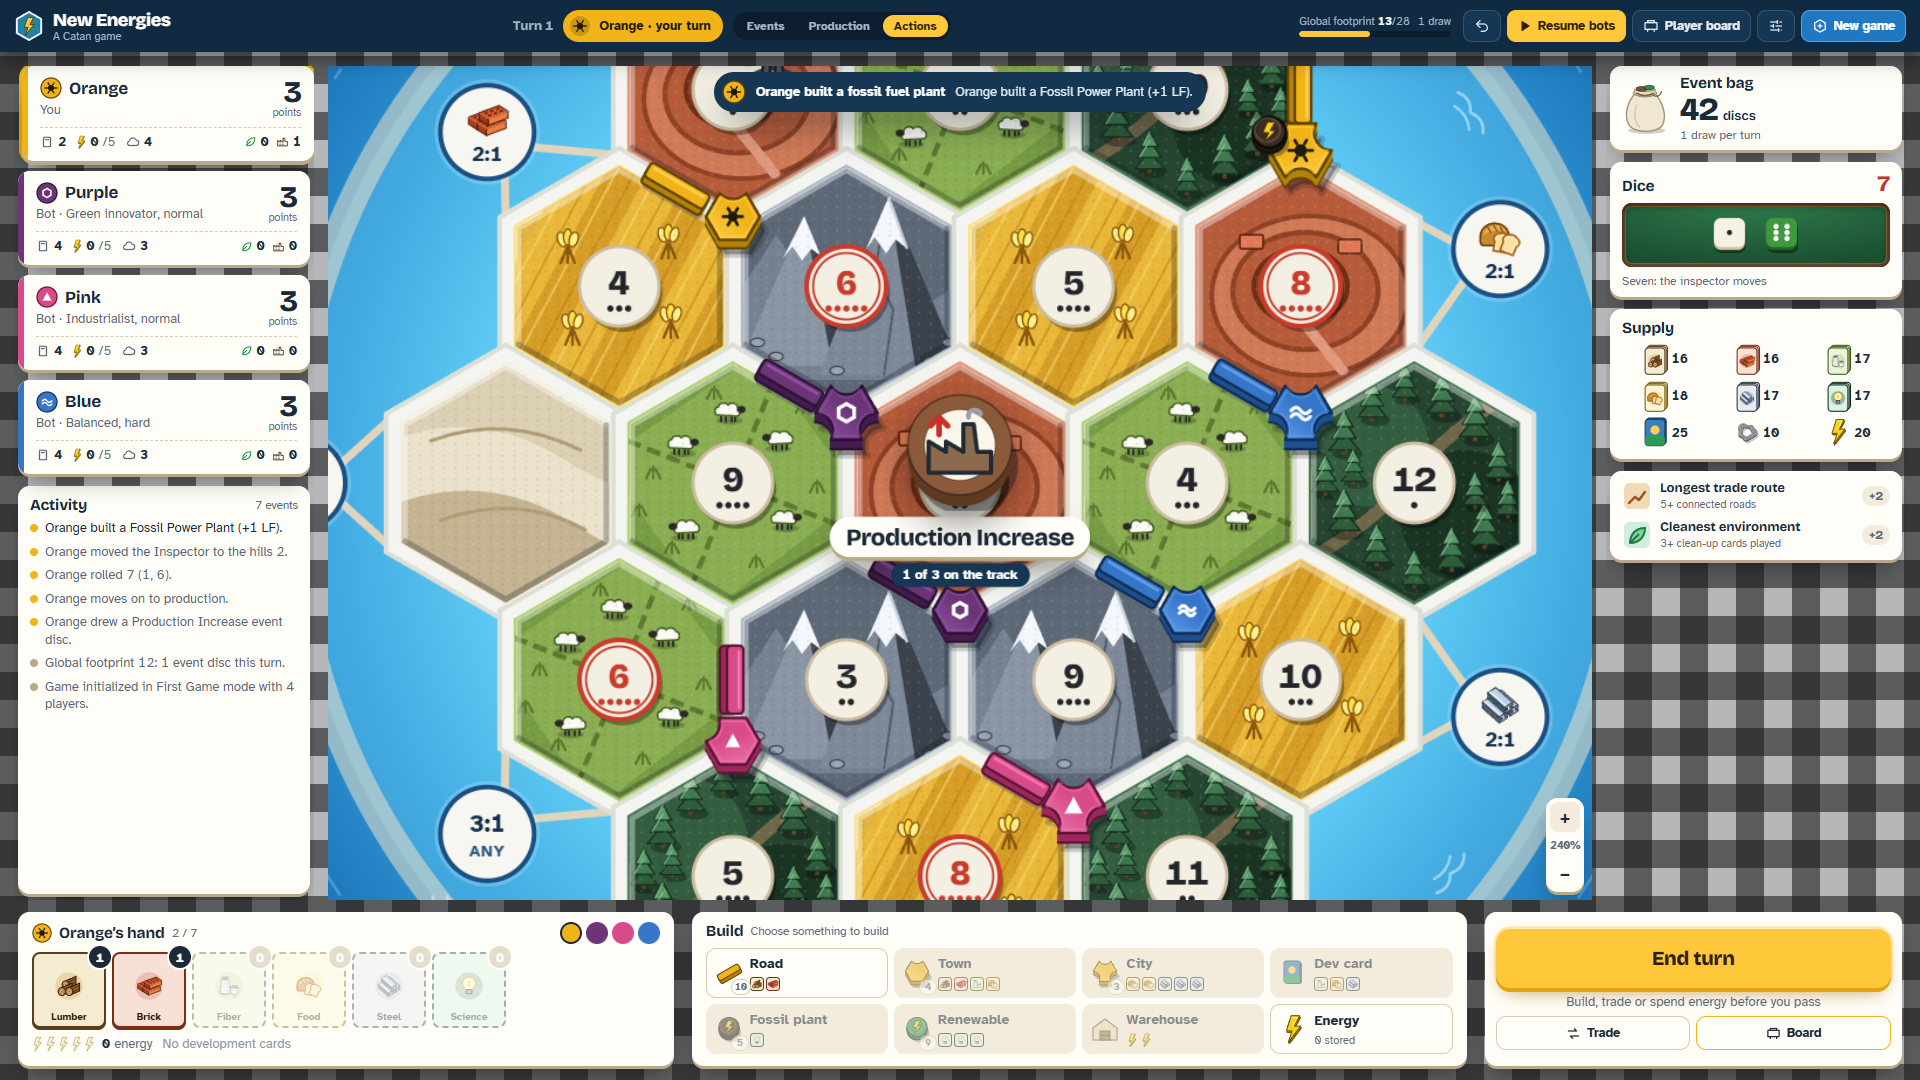
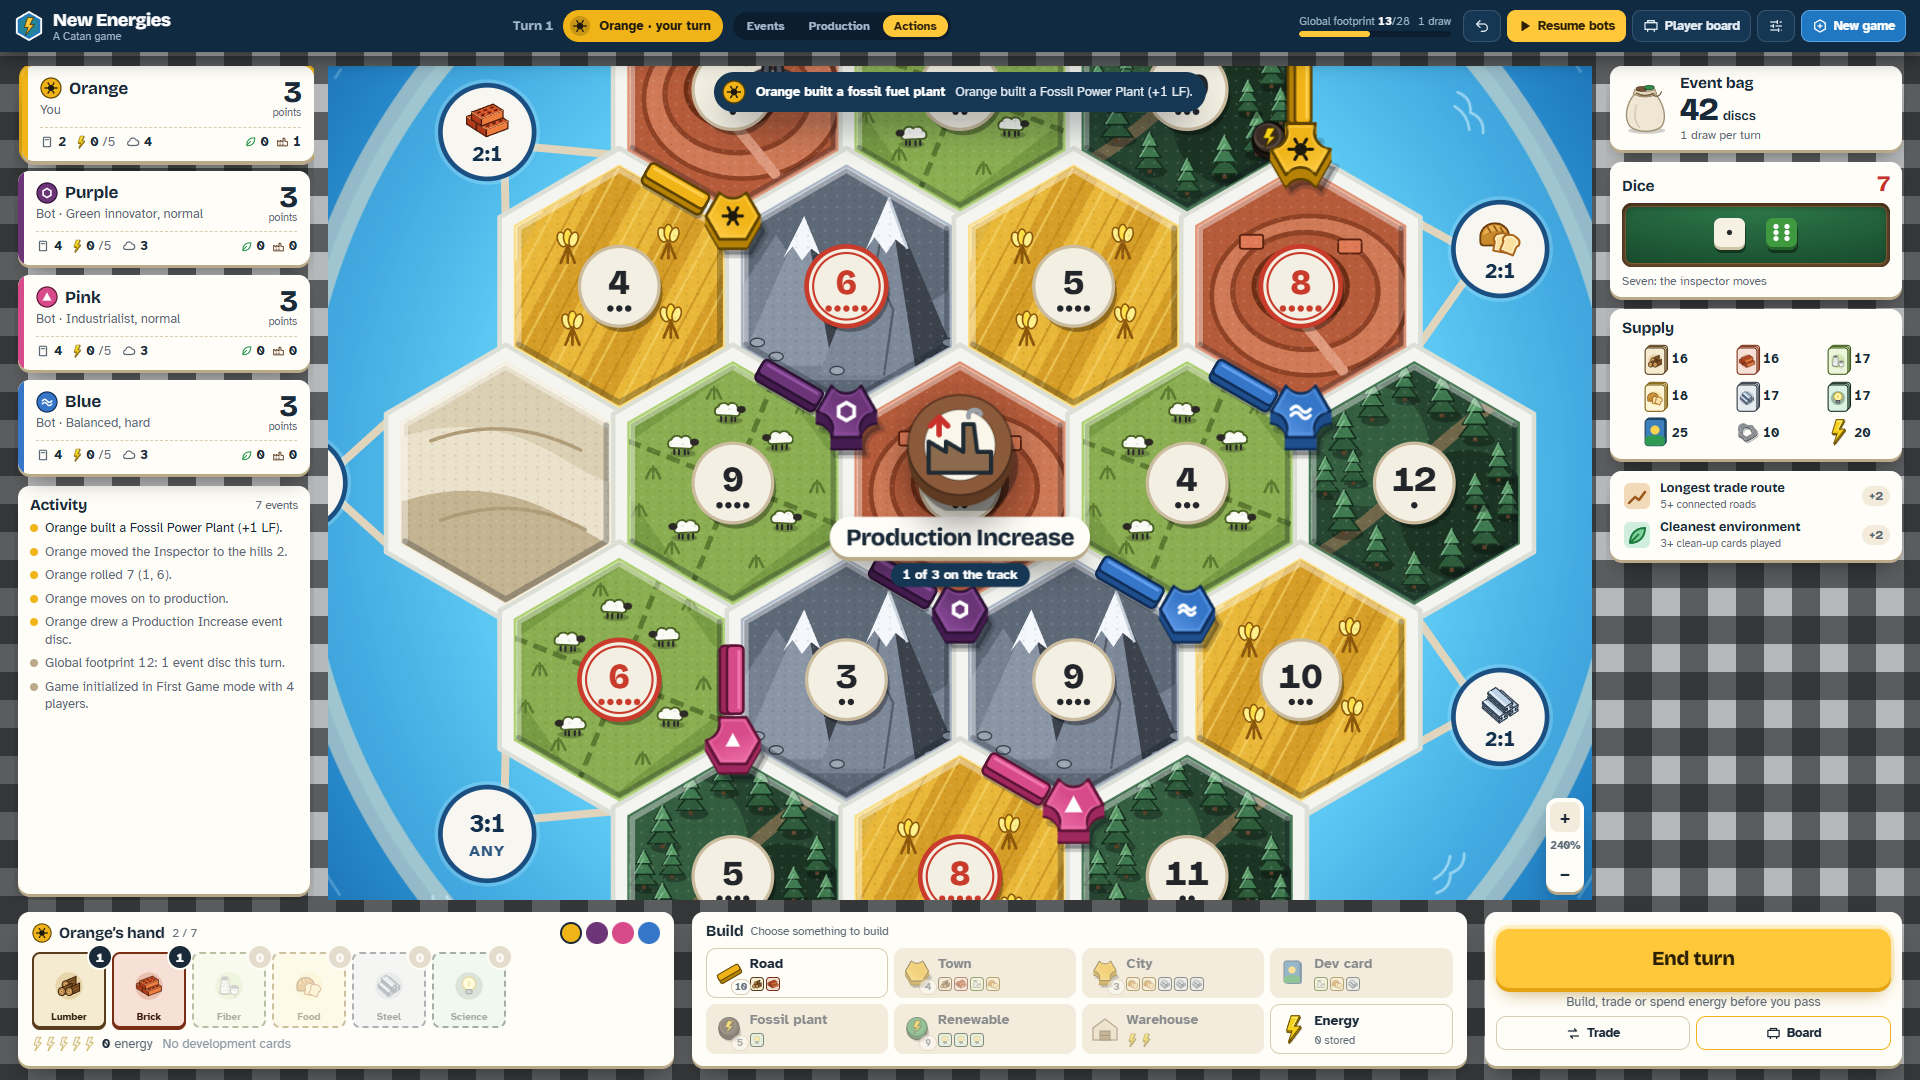
feat(ui): power plants sit down in the city's notches; centre the top brick
Plants no longer look pasted over the building:
- The city is the tallest piece (wall 5, body slimmed to keep its reach
  at 13.5 so roads still meet it cleanly), towns are 4 thick, and plant
  discs are thinner (0.3 x radius), so a plant is clearly shorter than the
  building it belongs to.
- Each plant now stands on the board in its notch (its base level with
  the building's base) instead of floating 2 units higher.
- Layering follows the viewing direction: a plant on the far side of the
  building (up the screen) is drawn behind it, so the building's raised
  top edge tucks over the plant; a plant on the near side is drawn in
  front, with the city's wall rising above it. This is decided per notch,
  so all six directions layer correctly.
- Plant placement targets moved to their own top layer, so highlights and
  clicks are never hidden under a building; hazard tokens stay on top of
  their building and let clicks through.
- ?scenario=plantfit puts a plant in every notch for visual checks.

Brick icon: the third brick now lies across the middle of the two below
(centred on their seam, like the steel icon) and the icon is re-centred.

diff --git a/src/ui/IslandBoardSvg.tsx b/src/ui/IslandBoardSvg.tsx
@@ -18,6 +18,7 @@ import {
   EventDiscType,
   GameState,
   HexId,
+  Intersection,
   NodeId,
   PlayerId,
   TerrainType,
@@ -40,10 +41,9 @@ import {
   HazardTokenSvg,
   InspectorPawnSvg,
   PieceDefs,
-  CITY_DEPTH,
   PLANT_RADIUS,
   PLANT_SOCKET_DIST,
-  TOWN_DEPTH,
+  plantRestOffset,
   PowerPlantCylinderSvg,
   TownPieceSvg,
 } from './WoodenPiecesSvg';
@@ -419,6 +419,27 @@ function usePlacementTimes(board: GameState['board']): (key: string) => boolean 
   };
 }
 
+/**
+ * Where the power plant disc for (node, hex) rests, and whether it is on the far side of the
+ * building (up the screen), in which case the building is drawn over it.
+ */
+function plantSlot(
+  board: GameState['board'],
+  node: Intersection,
+  hexId: HexId
+): { x: number; y: number; behind: boolean } {
+  const np = latticeToSvg(node.u, node.v);
+  const hp = hexCoordToSvg(board.hexes[hexId]!.coord);
+  const dx = hp.x - np.x;
+  const dy = hp.y - np.y;
+  const dist = Math.hypot(dx, dy) || 1;
+  return {
+    x: np.x + (dx / dist) * PLANT_SOCKET_DIST,
+    y: np.y + (dy / dist) * PLANT_SOCKET_DIST + plantRestOffset(node.building?.type ?? 'town'),
+    behind: dy < -1,
+  };
+}
+
 function angleToHexDeg(
   board: GameState['board'],
   np: { x: number; y: number },
@@ -746,7 +767,9 @@ export function IslandBoardSvg({
         })}
       </g>
 
-      {/* 5. 54 Intersections (Towns & Cities oriented to their plants, hazards & placement targets) */}
+      {/* 5. 54 Intersections. Each stack draws, in this order: plants on the far side of the building
+          (the building's raised top then overlaps them, so they sit down in their notch), the building,
+          plants on the near side (the building's wall shows above them), then any hazard token. */}
       <g className="intersections-layer">
         {board.intersections.map((node) => {
           const np = latticeToSvg(node.u, node.v);
@@ -770,99 +793,113 @@ export function IslandBoardSvg({
           const shownType = preview ? preview.type : node.building?.type;
           const shownPlayer = preview ? preview.playerId : node.building?.playerId;
 
+          const plantsOn = (behind: boolean) =>
+            node.powerPlants
+              .filter((plant) => plantSlot(board, node, plant.hexId).behind === behind)
+              .map((plant) => {
+                const slot = plantSlot(board, node, plant.hexId);
+                const slotKey = `${node.id}-${plant.hexId}`;
+                return (
+                  <g
+                    key={slotKey}
+                    data-plant={slotKey}
+                    role="img"
+                    aria-label={`${plant.type} power plant owned by ${plant.playerId} at intersection ${node.id}`}
+                    pointerEvents="none"
+                    className={isFresh(`p${slotKey}`) ? 'piece-drop' : undefined}
+                  >
+                    <PowerPlantCylinderSvg type={plant.type} cx={slot.x} cy={slot.y} r={PLANT_RADIUS} />
+                  </g>
+                );
+              });
+
           return (
-            <g
-              key={node.id}
-              data-node={node.id}
-              transform={`translate(${np.x.toFixed(2)}, ${np.y.toFixed(2)})`}
-              onClick={() => onNodeClick?.(node.id)}
-              onMouseEnter={isHighlighted ? () => onNodeHover?.(node.id) : undefined}
-              onMouseLeave={isHighlighted ? () => onNodeHover?.(null) : undefined}
-              onKeyDown={(e) => {
-                if (e.key === 'Enter' || e.key === ' ') {
-                  e.preventDefault();
-                  onNodeClick?.(node.id);
-                }
-              }}
-              onFocus={isHighlighted ? () => onNodeHover?.(node.id) : undefined}
-              onBlur={isHighlighted ? () => onNodeHover?.(null) : undefined}
-              role="button"
-              tabIndex={isHighlighted ? 0 : -1}
-              aria-label={`Intersection ${node.id}${node.building ? `: ${node.building.type} owned by ${node.building.playerId}` : ''}${node.hasHazard ? ', blocked by Hazard' : ''}`}
-              style={{ cursor: isHighlighted ? 'pointer' : 'inherit' }}
-            >
-              {/* Invisible hit circle */}
-              <circle cx={0} cy={0} r={isHighlighted ? 19 : 13} fill="transparent" />
+            <g key={node.id} className="node-stack">
+              {plantsOn(true)}
 
-              {shownType && shownPlayer && (
-                <g
-                  opacity={preview ? 0.62 : 1}
-                  data-testid={preview ? `node-preview-${node.id}` : undefined}
-                  className={!preview && isFresh(`n${node.id}`) ? 'piece-drop' : undefined}
-                >
-                  {shownType === 'town' ? (
-                    <TownPieceSvg
-                      playerId={shownPlayer}
-                      cx={0}
-                      cy={0}
-                      cutoutAngleDeg={townCutoutAngleDeg}
-                    />
-                  ) : (
-                    <CityPieceSvg
-                      playerId={shownPlayer}
-                      cx={0}
-                      cy={0}
-                      cutoutAngleDeg={firstHexAngleDeg}
-                    />
-                  )}
-                </g>
-              )}
+              <g
+                data-node={node.id}
+                transform={`translate(${np.x.toFixed(2)}, ${np.y.toFixed(2)})`}
+                onClick={() => onNodeClick?.(node.id)}
+                onMouseEnter={isHighlighted ? () => onNodeHover?.(node.id) : undefined}
+                onMouseLeave={isHighlighted ? () => onNodeHover?.(null) : undefined}
+                onKeyDown={(e) => {
+                  if (e.key === 'Enter' || e.key === ' ') {
+                    e.preventDefault();
+                    onNodeClick?.(node.id);
+                  }
+                }}
+                onFocus={isHighlighted ? () => onNodeHover?.(node.id) : undefined}
+                onBlur={isHighlighted ? () => onNodeHover?.(null) : undefined}
+                role="button"
+                tabIndex={isHighlighted ? 0 : -1}
+                aria-label={`Intersection ${node.id}${node.building ? `: ${node.building.type} owned by ${node.building.playerId}` : ''}${node.hasHazard ? ', blocked by Hazard' : ''}`}
+                style={{ cursor: isHighlighted ? 'pointer' : 'inherit' }}
+              >
+                {/* Invisible hit circle */}
+                <circle cx={0} cy={0} r={isHighlighted ? 19 : 13} fill="transparent" />
 
-              {/* Hazard token resting on the building (its hole shows the piece beneath) */}
+                {shownType && shownPlayer && (
+                  <g
+                    opacity={preview ? 0.62 : 1}
+                    data-testid={preview ? `node-preview-${node.id}` : undefined}
+                    className={!preview && isFresh(`n${node.id}`) ? 'piece-drop' : undefined}
+                  >
+                    {shownType === 'town' ? (
+                      <TownPieceSvg
+                        playerId={shownPlayer}
+                        cx={0}
+                        cy={0}
+                        cutoutAngleDeg={townCutoutAngleDeg}
+                      />
+                    ) : (
+                      <CityPieceSvg
+                        playerId={shownPlayer}
+                        cx={0}
+                        cy={0}
+                        cutoutAngleDeg={firstHexAngleDeg}
+                      />
+                    )}
+                  </g>
+                )}
+
+                {/* Placement target */}
+                {isHighlighted && !preview && (
+                  <g data-testid={`node-target-${node.id}`}>
+                    <g className="target-pulse">
+                      <circle cx={0} cy={0} r={11} fill="rgba(255, 200, 58, 0.28)" stroke="#ffc83a" strokeWidth={1.5} />
+                    </g>
+                    <circle cx={0} cy={0} r={6.5} fill="#ffc83a" stroke="#ffffff" strokeWidth={2.2} />
+                  </g>
+                )}
+              </g>
+
+              {plantsOn(false)}
+
+              {/* Hazard token resting on the building (its hole shows the piece beneath); clicks pass through */}
               {node.hasHazard && (
                 <g
                   data-testid={`node-hazard-${node.id}`}
+                  transform={`translate(${np.x.toFixed(2)}, ${np.y.toFixed(2)})`}
+                  pointerEvents="none"
                   className={isFresh(`hzn${node.id}`) ? 'piece-drop' : undefined}
                 >
                   <HazardTokenSvg cx={0} cy={-2} r={node.building?.type === 'city' ? 17 : 15} holeRatio={0.46} />
-                </g>
-              )}
-
-              {/* Placement target */}
-              {isHighlighted && !preview && (
-                <g data-testid={`node-target-${node.id}`}>
-                  <g className="target-pulse">
-                    <circle cx={0} cy={0} r={11} fill="rgba(255, 200, 58, 0.28)" stroke="#ffc83a" strokeWidth={1.5} />
-                  </g>
-                  <circle cx={0} cy={0} r={6.5} fill="#ffc83a" stroke="#ffffff" strokeWidth={2.2} />
                 </g>
               )}
             </g>
           );
         })}
       </g>
-      {/* 6. Power plant discs, nested in the Town/City notches */}
-      <g className="power-plants-cutout-layer">
-        {board.intersections.map((node) => {
-          const np = latticeToSvg(node.u, node.v);
 
-          return node.adjacentHexIds.map((hexId) => {
-            const hex = board.hexes[hexId]!;
-            const hp = hexCoordToSvg(hex.coord);
-            const dx = hp.x - np.x;
-            const dy = hp.y - np.y;
-            const dist = Math.hypot(dx, dy) || 1;
-            // The town/city top face is raised by half its thickness; keep the plant nested in its notch
-            const lift = (node.building?.type === 'city' ? CITY_DEPTH : TOWN_DEPTH) / 2;
-            const slotX = np.x + (dx / dist) * PLANT_SOCKET_DIST;
-            const slotY = np.y + (dy / dist) * PLANT_SOCKET_DIST - lift;
-
+      {/* 6. Power plant placement targets, on top of everything so they are never hidden */}
+      <g className="plant-targets-layer">
+        {board.intersections.map((node) =>
+          node.adjacentHexIds.map((hexId) => {
             const slotKey = `${node.id}-${hexId}`;
+            if (!(highlightedCutoutSlots?.has(slotKey) ?? false)) return null;
+            const slot = plantSlot(board, node, hexId);
             const plant = node.powerPlants.find((p) => p.hexId === hexId) ?? null;
-            const isHighlighted = highlightedCutoutSlots?.has(slotKey) ?? false;
-
-            if (!plant && !isHighlighted) return null;
-
             return (
               <g
                 key={slotKey}
@@ -879,32 +916,21 @@ export function IslandBoardSvg({
                   }
                 }}
                 role="button"
-                tabIndex={isHighlighted ? 0 : -1}
+                tabIndex={0}
                 aria-label={`Power plant cutout at intersection ${node.id} on hex ${hexId}${plant ? `: ${plant.type} plant owned by ${plant.playerId}` : ' (available)'}`}
-                style={{ cursor: isHighlighted ? 'pointer' : 'inherit' }}
+                style={{ cursor: 'pointer' }}
               >
-                {plant && (
-                  <g className={isFresh(`p${slotKey}`) ? 'piece-drop' : undefined}>
-                    <PowerPlantCylinderSvg type={plant.type} cx={slotX} cy={slotY} r={PLANT_RADIUS} />
+                <g data-testid={`plant-target-${slotKey}`} transform={`translate(${slot.x}, ${slot.y})`}>
+                  <circle r={13} fill="transparent" />
+                  <g className="target-pulse">
+                    <circle r={8.5} fill="rgba(47, 154, 83, 0.85)" stroke="#ffffff" strokeWidth={2} />
+                    <polygon points="-1,-4.5 2.8,-4.5 0,0 3.2,0 -2.2,5 -0.5,0.5 -3.2,0.5" fill="#ffc83a" />
                   </g>
-                )}
-
-                {isHighlighted && (
-                  <g data-testid={`plant-target-${slotKey}`} transform={`translate(${slotX}, ${slotY})`}>
-                    <circle r={13} fill="transparent" />
-                    <g className="target-pulse">
-                      <circle r={8.5} fill="rgba(47, 154, 83, 0.85)" stroke="#ffffff" strokeWidth={2} />
-                      <polygon
-                        points="-1,-4.5 2.8,-4.5 0,0 3.2,0 -2.2,5 -0.5,0.5 -3.2,0.5"
-                        fill="#ffc83a"
-                      />
-                    </g>
-                  </g>
-                )}
+                </g>
               </g>
             );
-          });
-        })}
+          })
+        )}
       </g>
 
       </g>

diff --git a/src/ui/devScenarios.ts b/src/ui/devScenarios.ts
@@ -8,7 +8,8 @@
  * Variants: `showcase` (action phase), `discard` (roll of 7 discard prompt),
  * `cardchoice` (Climate Conference reward prompt), `victory` (game over summary),
  * `draws2` / `draws3` (global footprint low / high, so the HUD shows 2 / 3 draws per turn),
- * `cityfit` (roads on every side of every building, to check how pieces meet roads).
+ * `cityfit` (roads on every side of every building, to check how pieces meet roads),
+ * `plantfit` (a power plant in every notch of every building, to check plant layering).
  */
 
 import { computePlayerLF, computeTrueTotalLF, clampGF } from '../engine/footprint';
@@ -85,10 +86,10 @@ export function applyShowcaseScenario(input: GameState): GameState {
   return state;
 }
 
-export type DevScenario = 'showcase' | 'discard' | 'cardchoice' | 'victory' | 'draws2' | 'draws3' | 'cityfit';
+export type DevScenario = 'showcase' | 'discard' | 'cardchoice' | 'victory' | 'draws2' | 'draws3' | 'cityfit' | 'plantfit';
 
 export function applyDevScenario(input: GameState, scenario: string): GameState {
-  if (!['showcase', 'discard', 'cardchoice', 'victory', 'draws2', 'draws3', 'cityfit'].includes(scenario)) return input;
+  if (!['showcase', 'discard', 'cardchoice', 'victory', 'draws2', 'draws3', 'cityfit', 'plantfit'].includes(scenario)) return input;
   const state = applyShowcaseScenario(input);
   if (scenario === 'discard') {
     state.phase = 'ProductionPhase';
@@ -108,6 +109,20 @@ export function applyDevScenario(input: GameState, scenario: string): GameState 
         isOptional: false,
       },
     ];
+  } else if (scenario === 'plantfit') {
+    // A plant in every notch of every building (and a second city in each of the other direction types)
+    // so all six notch directions can be checked at once
+    let flip = 0;
+    for (const node of state.board.intersections) {
+      if (!node.building) continue;
+      const room = node.building.type === 'city' ? 3 : 1;
+      for (const hexId of node.adjacentHexIds) {
+        if (node.powerPlants.length >= room) break;
+        const hex = state.board.hexes[hexId]!;
+        if (hex.numberDisc === null || node.powerPlants.some((p) => p.hexId === hexId)) continue;
+        node.powerPlants.push({ playerId: node.building.playerId, type: flip++ % 2 === 0 ? 'fossil' : 'renewable', hexId });
+      }
+    }
   } else if (scenario === 'cityfit') {
     // Roads on every side of every town and city, to check how pieces meet roads in all directions
     for (const node of state.board.intersections) {

diff --git a/src/ui/WoodenPiecesSvg.tsx b/src/ui/WoodenPiecesSvg.tsx
@@ -105,10 +105,23 @@ export const PLANT_SOCKET_DIST = 15.5;
 export const PLANT_RADIUS = 7;
 
 const TOWN_RADIUS = 11.5;
-const CITY_APOTHEM = 11.5;
+const CITY_APOTHEM = 11;
 /** Thickness of the wooden pieces, in board units (drawn downward as the side wall). */
-export const TOWN_DEPTH = 3.5;
-export const CITY_DEPTH = 4;
+export const TOWN_DEPTH = 4;
+/** The city is the tallest piece, clearly taller than a power plant, so a plant sits down in its notch. */
+export const CITY_DEPTH = 5;
+/** A power plant disc is this fraction of its radius thick. */
+export const PLANT_DEPTH_RATIO = 0.3;
+
+/**
+ * Vertical offset (board units) from an intersection to the centre of the top face of a power plant
+ * resting in that building's notch. Pieces are drawn with their top raised by half their own wall
+ * thickness, so a plant standing on the same board as the building has its base at the building's
+ * base: offset = building thickness / 2 - plant thickness.
+ */
+export function plantRestOffset(building: 'town' | 'city'): number {
+  return (building === 'city' ? CITY_DEPTH : TOWN_DEPTH) / 2 - PLANT_RADIUS * PLANT_DEPTH_RATIO;
+}
 
 /**
  * How far a Town / City reaches from its intersection toward a road, in board units. The piece is
@@ -362,7 +375,7 @@ export function PowerPlantCylinderSvg({
   hasGreenDiscUnderneath?: boolean;
 }) {
   const style = type === 'fossil' ? TABLETOP_THEME.plants.fossil : TABLETOP_THEME.plants.renewable;
-  const depth = r * 0.34;
+  const depth = r * PLANT_DEPTH_RATIO;
   const bolt = `${-r * 0.12},${-r * 0.62} ${r * 0.38},${-r * 0.62} ${r * 0.06},${-r * 0.1} ${r * 0.42},${-r * 0.1} ${-r * 0.3},${r * 0.62} ${-r * 0.04},${r * 0.04} ${-r * 0.4},${r * 0.04}`;
 
   return (
@@ -904,11 +917,11 @@ export function ResourceIconSvg({
     case 'brick':
       return (
         <g transform={`translate(${cx}, ${cy}) scale(${scale})`}>
-          {/* Three clay bricks with round cores, stacked like the rulebook card */}
-          <g transform="scale(0.82) translate(-0.5, 5.07)">
-            <BrickPiece t={add(BRICK_B, [0, 0])} />
+          {/* Three clay bricks: two side by side, the third laid across the middle on top (centred on the seam) */}
+          <g transform="scale(0.9) translate(-0.5, 4.88)">
+            <BrickPiece t={BRICK_B} />
             <BrickPiece t={[0, 0]} />
-            <BrickPiece t={[1.2, -6.2]} />
+            <BrickPiece t={[BRICK_B[0] / 2, BRICK_B[1] / 2 - BRICK_H]} />
           </g>
         </g>
       );
